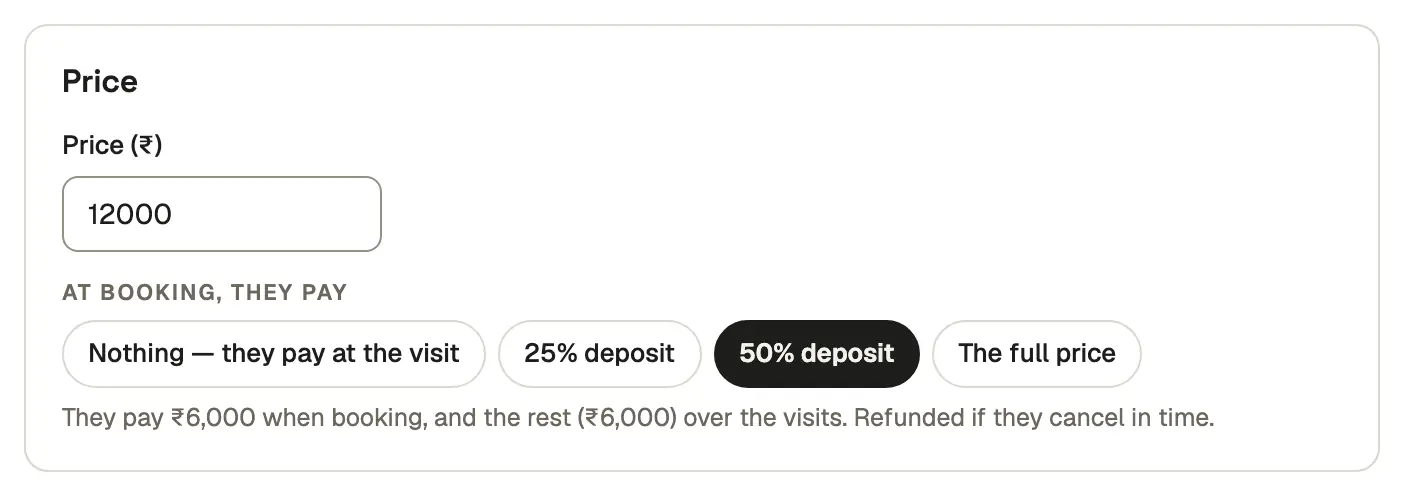
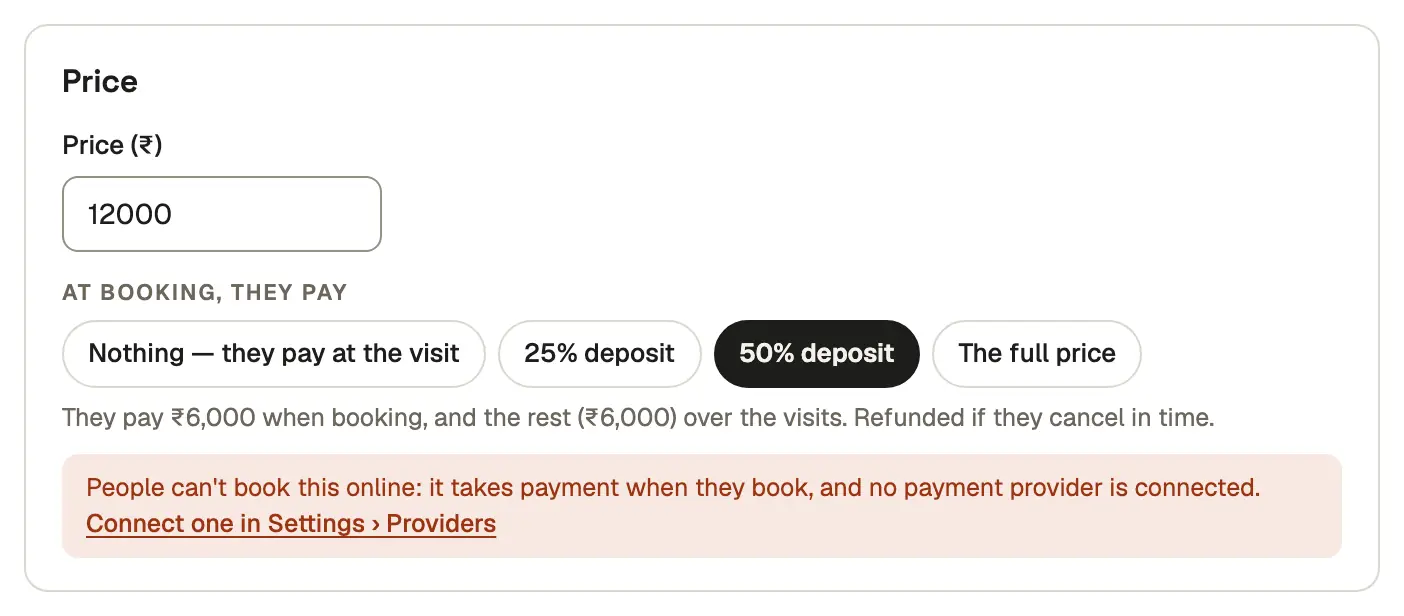
docs(help): re-take the hours, deposit and domain shots after DEC-087/088
- Set your team's hours moves to Kavi Dental, the demo business with
  opening hours: the Availability note, a draft Saturday stretch past
  closing that isn't bookable in person (new step 3), and "How people pay
  when they book" in Booking rules (new shot help-team-hours-6).
- Take a deposit: shots 1, 2, 3 and 5 re-taken; the editor and Services
  show the can't-be-booked-online warning, and the booking page no longer
  draws a desk line. Captions say why the demo clinic shows it.
- Connect your own domain: shot 1 taken with the API's RENDERER_URL at
  https://saroh.app, so the web address reads northwind.saroh.app.

diff --git a/e2e/marketing-shots/shots.config.ts b/e2e/marketing-shots/shots.config.ts
@@ -234,28 +234,48 @@ const HELP_SHOTS: Shot[] = [
     },
 ];
 
-/* "Set your team's hours": Pulse Fitness's Availability, looked at only.
- * Picking a person, opening "+ Hours" and adding a range there are the
- * page's own draft; nothing is saved (Save hours is never pressed). */
+/* "Set your team's hours": Kavi Dental's Availability, looked at only.
+ * Kavi is the demo business whose storefront has opening hours (Mon–Sat
+ * 09:00–19:00, Sun 10:00–13:00), so the page says in-person bookings fall
+ * inside them (DEC-087). The dentists' seeded hours all fall inside, so
+ * "+ Hours" on Dr. Pillai's Saturday is set to 19:00–20:00 to show a
+ * stretch that isn't bookable in person. Picking a person, the times and
+ * Add are the page's own draft; nothing is saved (Save hours is never
+ * pressed). */
 const AVAILABILITY = "/bookings/availability";
 const PICK = (name: string): Step => ({
     click: `[role="radiogroup"][aria-label="Team member"] [role="radio"]:has-text("${name}")`,
 });
-const SATURDAY_HOURS: Step[] = [
-    PICK("Ritu Kapoor"),
-    {
-        click: 'section[aria-labelledby="weekly-hours"] li:has-text("Saturday") button:has-text("Hours")',
-    },
+const SATURDAY =
+    'section[aria-labelledby="weekly-hours"] li:has-text("Saturday")';
+const SATURDAY_EVENING: Step[] = [
+    PICK("Arun Pillai"),
+    { click: `${SATURDAY} button:has-text("Hours")` },
+    { click: `${SATURDAY} [aria-label="From"]` },
+    { click: '[role="option"]:has-text("19:00")' },
+    { click: `${SATURDAY} [aria-label="To"]` },
+    { click: '[role="option"]:has-text("20:00")' },
+    // Out of the picker, so no focus ring is in the picture.
+    { click: 'section[aria-labelledby="weekly-hours"] #weekly-hours' },
     {
         waitFor:
             'section[aria-labelledby="weekly-hours"] button:text-is("Add")',
     },
 ];
+const SATURDAY_ADDED: Step[] = [
+    ...SATURDAY_EVENING,
+    {
+        click: 'section[aria-labelledby="weekly-hours"] button:text-is("Add")',
+    },
+    { waitFor: 'button:has-text("Save hours")' },
+];
 
 /* "Take a deposit when they book": Kavi Dental's root canal, looked at
  * (a chip clicked, never saved); the booking page of Northwind, whose
  * Warehouse walkthrough was set to a 50% deposit on the throwaway
- * database, walked to its Paying step and never booked. */
+ * database, walked to its Paying step and never booked. Kavi's seeded
+ * Razorpay connection has no key id, so its checkout can't open: the
+ * editor and Services say it can't be booked online (DEC-088). */
 const KAVI_ROOT_CANAL = "/services/seed_sc_kavi_service_2";
 const KAVI_PRICE = 'section:has(h2:text-is("Price"))';
 
@@ -267,76 +287,86 @@ const RYE_PLANS = "/billing/subscriptions?tab=plans";
 
 /* "Connect your own domain" and "Make your link look right when shared":
  * Northwind's site settings. Its seeded domain, northwindsupply.in, waits
- * for DNS; the domain box is typed into and never added. */
+ * for DNS; the domain box is typed into and never added. The web address
+ * is the API's (`site-origin.ts` rendererHost): run the API with
+ * RENDERER_URL=https://saroh.app for help-own-domain-1, so it reads
+ * northwind.saroh.app as in production, not the local renderer's host. */
 const NW_SETTINGS = "/sites/seed_site_0/settings";
 const DOMAIN = 'section:has(h2:text-is("Your own domain"))';
 const SHARE = 'section:has(h2:text-is("Social share image"))';
 const SEARCH = 'section:has(h2:text-is("Search"))';
 
 const HELP_SHOTS_B: Shot[] = [
-    // ── Set your team's hours (Pulse Fitness) ──────────────────────────
+    // ── Set your team's hours (Kavi Dental) ───────────────────────────
     {
         key: "help-team-hours-1",
-        business: "pulse",
+        business: "kavi",
         role: "owner",
         route: AVAILABILITY,
         viewport: { width: 1280, height: 720 },
-        steps: [PICK("Ritu Kapoor")],
-        mark: '[role="radiogroup"][aria-label="Team member"] [role="radio"]:has-text("Ritu Kapoor")',
-        alt: "Availability at Pulse Fitness (demo gym): the team across the top, Ritu Kapoor picked, her weekly hours, time off and the booking rules",
-        caption: "Availability at Pulse Fitness, with Ritu Kapoor picked",
+        steps: [PICK("Arun Pillai")],
+        mark: '[role="radiogroup"][aria-label="Team member"] [role="radio"]:has-text("Arun Pillai")',
+        alt: "Availability at Kavi Dental (demo clinic): the dentists across the top, Dr. Arun Pillai picked, the note that in-person bookings fall inside opening hours, and his weekly hours",
+        caption: "Availability at Kavi Dental, with Dr. Arun Pillai picked",
     },
     {
         key: "help-team-hours-2",
-        business: "pulse",
+        business: "kavi",
         role: "owner",
         route: AVAILABILITY,
         viewport: { width: 1280, height: 1000 },
-        steps: SATURDAY_HOURS,
+        steps: SATURDAY_EVENING,
         clip: { selector: 'section[aria-labelledby="weekly-hours"]', pad: 12 },
         mark: 'section[aria-labelledby="weekly-hours"] button:text-is("Add")',
-        alt: "Ritu Kapoor's weekly hours at Pulse Fitness (demo gym), a day at a time, with new hours being added on Saturday",
-        caption: "Ritu Kapoor's weekly hours, with + Hours open on Saturday",
+        alt: "Dr. Arun Pillai's weekly hours at Kavi Dental (demo clinic), a day at a time, with 19:00 to 20:00 being added on Saturday",
+        caption:
+            "Dr. Arun Pillai's weekly hours, with + Hours open on Saturday",
     },
     {
         key: "help-team-hours-3",
-        business: "pulse",
+        business: "kavi",
         role: "owner",
         route: AVAILABILITY,
-        viewport: { width: 1280, height: 720 },
-        steps: [
-            ...SATURDAY_HOURS,
-            {
-                click: 'section[aria-labelledby="weekly-hours"] button:text-is("Add")',
-            },
-            { waitFor: 'button:has-text("Save hours")' },
-        ],
-        mark: 'button:has-text("Save hours")',
-        alt: "Availability at Pulse Fitness (demo gym) with a change not saved yet, and the bar with Discard and Save hours",
-        caption: "A change to Ritu Kapoor's hours, waiting for Save hours",
+        viewport: { width: 1280, height: 1000 },
+        steps: SATURDAY_ADDED,
+        clip: { selector: 'section[aria-labelledby="weekly-hours"]', pad: 12 },
+        mark: `${SATURDAY} p:has-text("bookable in person")`,
+        alt: "Dr. Arun Pillai's Saturday at Kavi Dental (demo clinic) with 19:00–20:00 added, drawn dashed, and the line saying it isn't bookable in person because the clinic is open 09:00–19:00",
+        caption: "Saturday evening added past closing, not bookable in person",
     },
     {
         key: "help-team-hours-4",
-        business: "pulse",
+        business: "kavi",
         role: "owner",
         route: AVAILABILITY,
-        viewport: { width: 1280, height: 1000 },
-        steps: [PICK("Sameer Khan")],
-        clip: { selector: 'section:has(h2:text-is("Time off"))', pad: 12 },
-        mark: 'section:has(h2:text-is("Time off")) button:has-text("Add day off")',
-        alt: "Time off for Sameer Khan at Pulse Fitness (demo gym): his days off for a wedding, and the form to add more",
-        caption: "Sameer Khan's time off, and the form to add a day off",
+        viewport: { width: 1280, height: 720 },
+        steps: SATURDAY_ADDED,
+        mark: 'button:has-text("Save hours")',
+        alt: "Availability at Kavi Dental (demo clinic) with a change not saved yet, and the bar with Discard and Save hours",
+        caption: "A change to Dr. Arun Pillai's hours, waiting for Save hours",
     },
     {
         key: "help-team-hours-5",
-        business: "pulse",
+        business: "kavi",
         role: "owner",
         route: AVAILABILITY,
-        viewport: { width: 1280, height: 1000 },
+        viewport: { width: 1280, height: 1400 },
+        steps: [PICK("Arun Pillai")],
+        clip: { selector: 'section:has(h2:text-is("Time off"))', pad: 12 },
+        mark: 'section:has(h2:text-is("Time off")) button:has-text("Add day off")',
+        alt: "Time off for Dr. Arun Pillai at Kavi Dental (demo clinic): his day at a dental conference, and the form to add more",
+        caption: "Dr. Arun Pillai's time off, and the form to add a day off",
+    },
+    {
+        key: "help-team-hours-6",
+        business: "kavi",
+        role: "owner",
+        route: AVAILABILITY,
+        viewport: { width: 1280, height: 1400 },
         clip: { selector: 'section[aria-labelledby="booking-rules"]', pad: 12 },
-        mark: '[aria-label="How far ahead people can book"]',
-        alt: "Booking rules at Pulse Fitness (demo gym): how far ahead people can book, the latest they can book, free cancellation and refunds",
-        caption: "Pulse Fitness's booking rules, for the whole business",
+        mark: '[aria-label="How people pay when they book"]',
+        alt: "Booking rules at Kavi Dental (demo clinic): how far ahead people can book, the latest they can book, free cancellation, refunds and how people pay when they book",
+        caption: "Kavi Dental's booking rules, for the whole business",
     },
 
     // ── Take a deposit when they book (Kavi Dental, Northwind) ─────────
@@ -347,7 +377,7 @@ const HELP_SHOTS_B: Shot[] = [
         route: "/services",
         viewport: { width: 1024, height: 760 },
         mark: 'a[aria-label="Edit Root canal treatment"]',
-        alt: "Services at Kavi Dental (demo clinic): each with its price, length and who takes it, and an Edit button",
+        alt: "Services at Kavi Dental (demo clinic): each with its price, length and who takes it, and an Edit button; the root canal is marked Can't be booked online, as no payment provider is connected",
         caption: "Services at Kavi Dental, with Edit on the root canal",
     },
     {
@@ -358,7 +388,7 @@ const HELP_SHOTS_B: Shot[] = [
         viewport: { width: 1280, height: 1400 },
         clip: { selector: KAVI_PRICE, pad: 12 },
         mark: 'section:has(h2:text-is("Price")) [role="radio"][aria-checked="true"]',
-        alt: "The root canal's price at Kavi Dental (demo clinic), with At booking, they pay set to a 50% deposit and what that means",
+        alt: "The root canal's price at Kavi Dental (demo clinic), with At booking, they pay set to a 50% deposit, what that means, and the warning that people can't book it online while no payment provider is connected",
         caption: "The root canal's price, with a 50% deposit at booking",
     },
     {

diff --git a/apps/saroh.in/content/shots.captured.ts b/apps/saroh.in/content/shots.captured.ts
@@ -264,52 +264,59 @@ export const CAPTURED: Record<
     },
     "help-team-hours-1": {
         src: "/shots/help/help-team-hours-1.webp",
-        alt: "Availability at Pulse Fitness (demo gym): the team across the top, Ritu Kapoor picked, her weekly hours, time off and the booking rules",
+        alt: "Availability at Kavi Dental (demo clinic): the dentists across the top, Dr. Arun Pillai picked, the note that in-person bookings fall inside opening hours, and his weekly hours",
         width: 2560,
         height: 1440,
-        mark: { x: 0.5476, y: 0.2785, w: 0.1356, h: 0.0611 },
+        mark: { x: 0.1984, y: 0.3389, w: 0.1445, h: 0.0611 },
     },
     "help-team-hours-2": {
         src: "/shots/help/help-team-hours-2.webp",
-        alt: "Ritu Kapoor's weekly hours at Pulse Fitness (demo gym), a day at a time, with new hours being added on Saturday",
+        alt: "Dr. Arun Pillai's weekly hours at Kavi Dental (demo clinic), a day at a time, with 19:00 to 20:00 being added on Saturday",
         width: 1258,
-        height: 1002,
-        mark: { x: 0.5251, y: 0.6747, w: 0.0953, h: 0.0878 },
+        height: 978,
+        mark: { x: 0.5251, y: 0.7648, w: 0.0953, h: 0.09 },
     },
     "help-team-hours-3": {
         src: "/shots/help/help-team-hours-3.webp",
-        alt: "Availability at Pulse Fitness (demo gym) with a change not saved yet, and the bar with Discard and Save hours",
+        alt: "Dr. Arun Pillai's Saturday at Kavi Dental (demo clinic) with 19:00–20:00 added, drawn dashed, and the line saying it isn't bookable in person because the clinic is open 09:00–19:00",
+        width: 1258,
+        height: 962,
+        mark: { x: 0.0366, y: 0.79, w: 0.9269, h: 0.0624 },
+    },
+    "help-team-hours-4": {
+        src: "/shots/help/help-team-hours-4.webp",
+        alt: "Availability at Kavi Dental (demo clinic) with a change not saved yet, and the bar with Discard and Save hours",
         width: 2560,
         height: 1440,
         mark: { x: 0.8834, y: 0.9056, w: 0.0924, h: 0.0694 },
     },
-    "help-team-hours-4": {
-        src: "/shots/help/help-team-hours-4.webp",
-        alt: "Time off for Sameer Khan at Pulse Fitness (demo gym): his days off for a wedding, and the form to add more",
-        width: 800,
-        height: 634,
-        mark: { x: 0.6778, y: 0.7223, w: 0.2648, h: 0.1385 },
-    },
     "help-team-hours-5": {
         src: "/shots/help/help-team-hours-5.webp",
-        alt: "Booking rules at Pulse Fitness (demo gym): how far ahead people can book, the latest they can book, free cancellation and refunds",
+        alt: "Time off for Dr. Arun Pillai at Kavi Dental (demo clinic): his day at a dental conference, and the form to add more",
         width: 800,
-        height: 670,
-        mark: { x: 0.6888, y: 0.2437, w: 0.2538, h: 0.1311 },
+        height: 740,
+        mark: { x: 0.6778, y: 0.7616, w: 0.2648, h: 0.1188 },
+    },
+    "help-team-hours-6": {
+        src: "/shots/help/help-team-hours-6.webp",
+        alt: "Booking rules at Kavi Dental (demo clinic): how far ahead people can book, the latest they can book, free cancellation, refunds and how people pay when they book",
+        width: 800,
+        height: 908,
+        mark: { x: 0.7399, y: 0.4703, w: 0.2027, h: 0.0968 },
     },
     "help-take-deposit-1": {
         src: "/shots/help/help-take-deposit-1.webp",
-        alt: "Services at Kavi Dental (demo clinic): each with its price, length and who takes it, and an Edit button",
+        alt: "Services at Kavi Dental (demo clinic): each with its price, length and who takes it, and an Edit button; the root canal is marked Can't be booked online, as no payment provider is connected",
         width: 2048,
         height: 1520,
-        mark: { x: 0.1064, y: 0.8191, w: 0.0704, h: 0.0658 },
+        mark: { x: 0.1064, y: 0.9369, w: 0.0704, h: 0.0658 },
     },
     "help-take-deposit-2": {
         src: "/shots/help/help-take-deposit-2.webp",
-        alt: "The root canal's price at Kavi Dental (demo clinic), with At booking, they pay set to a 50% deposit and what that means",
+        alt: "The root canal's price at Kavi Dental (demo clinic), with At booking, they pay set to a 50% deposit, what that means, and the warning that people can't book it online while no payment provider is connected",
         width: 1404,
-        height: 494,
-        mark: { x: 0.4993, y: 0.6216, w: 0.1648, h: 0.1857 },
+        height: 616,
+        mark: { x: 0.4993, y: 0.5, w: 0.1648, h: 0.1494 },
     },
     "help-take-deposit-3": {
         src: "/shots/help/help-take-deposit-3.webp",
@@ -329,8 +336,8 @@ export const CAPTURED: Record<
         src: "/shots/help/help-take-deposit-5.webp",
         alt: "The booking summary on the site of Kavi Dental (demo clinic), saying it can't take the deposit online right now",
         width: 648,
-        height: 1038,
-        mark: { x: 0.0864, y: 0.6073, w: 0.8273, h: 0.0982 },
+        height: 924,
+        mark: { x: 0.0864, y: 0.5589, w: 0.8273, h: 0.1103 },
     },
     "help-monthly-plan-1": {
         src: "/shots/help/help-monthly-plan-1.webp",

diff --git a/e2e/tests/help.spec.ts b/e2e/tests/help.spec.ts
@@ -177,7 +177,7 @@ test("at 390 the areas are a Topics menu, and nothing hides sideways", async ({
 
 /** The bookings, plans and website articles: each step's real screen, ringed. */
 const MORE = [
-    { slug: "set-your-teams-hours", title: "Set your team's hours", steps: 5 },
+    { slug: "set-your-teams-hours", title: "Set your team's hours", steps: 6 },
     {
         slug: "take-a-deposit-when-they-book",
         title: "Take a deposit when they book",
